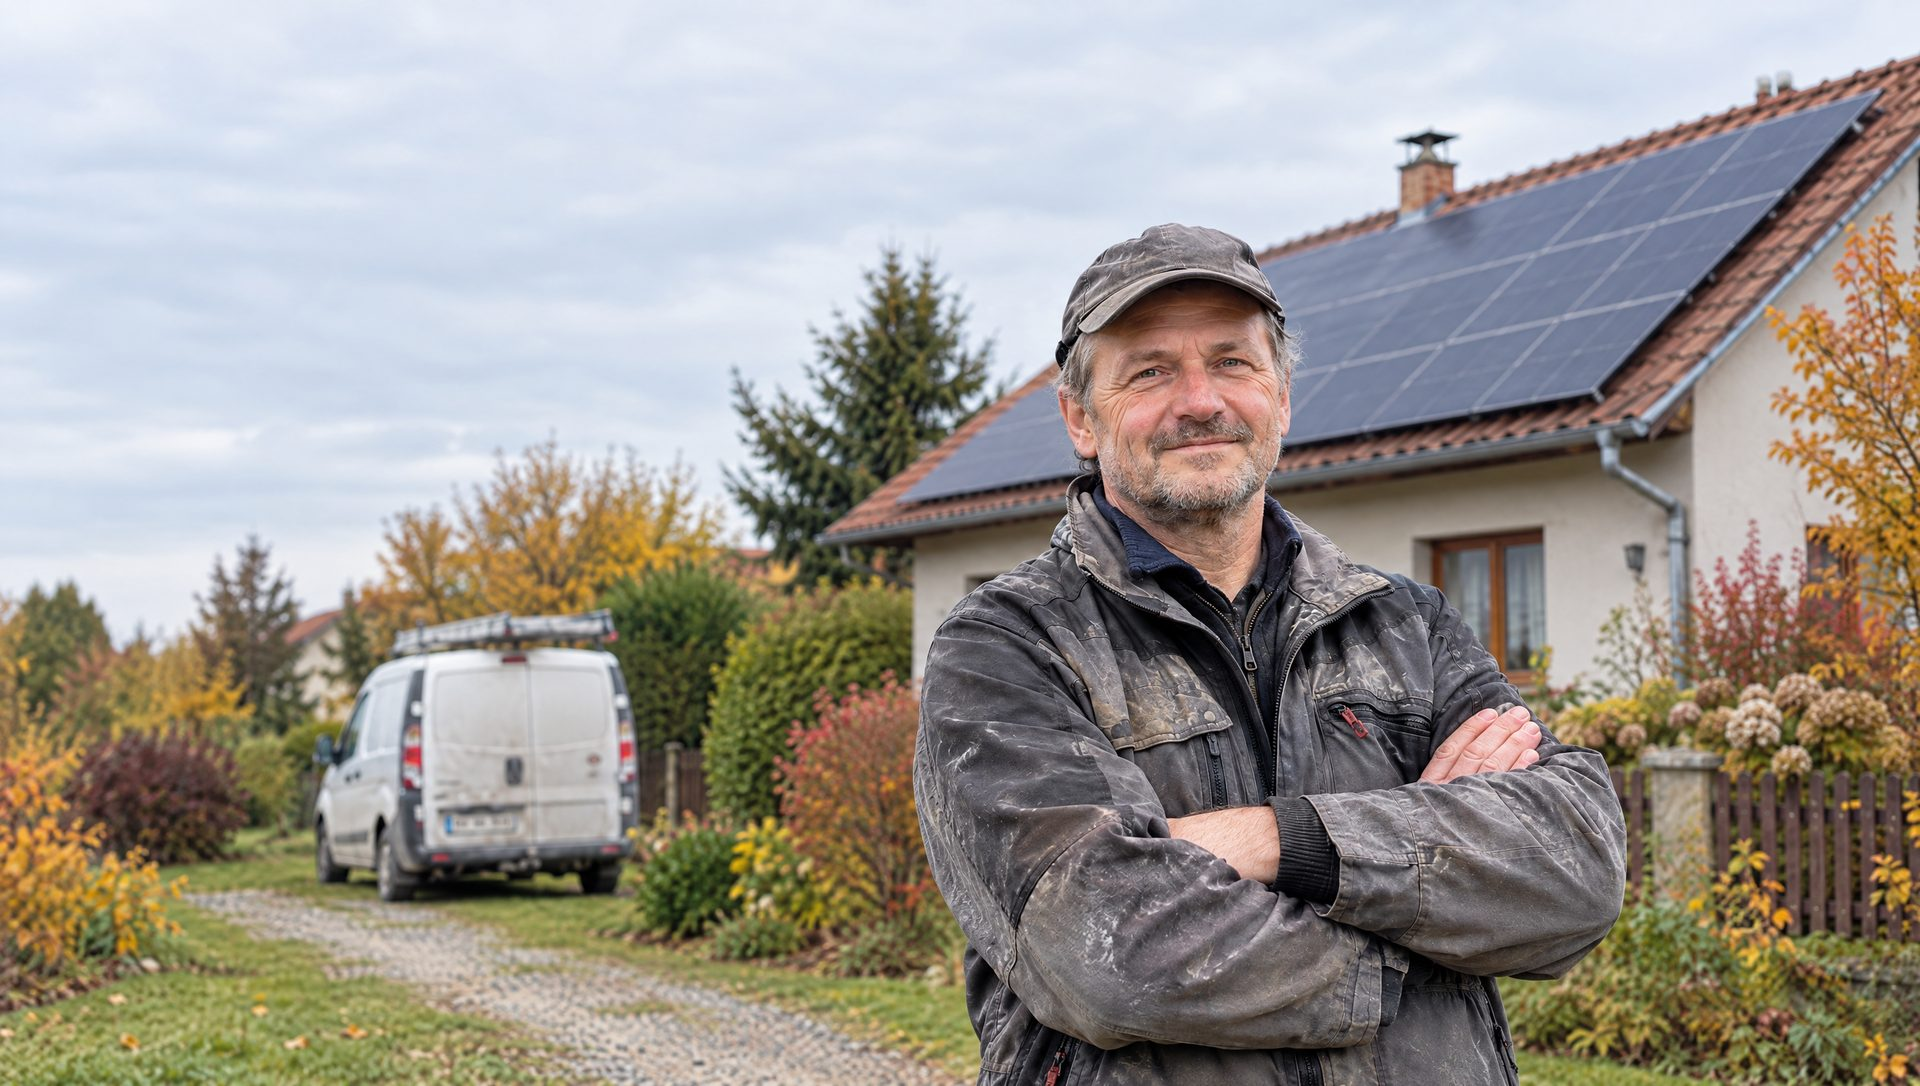
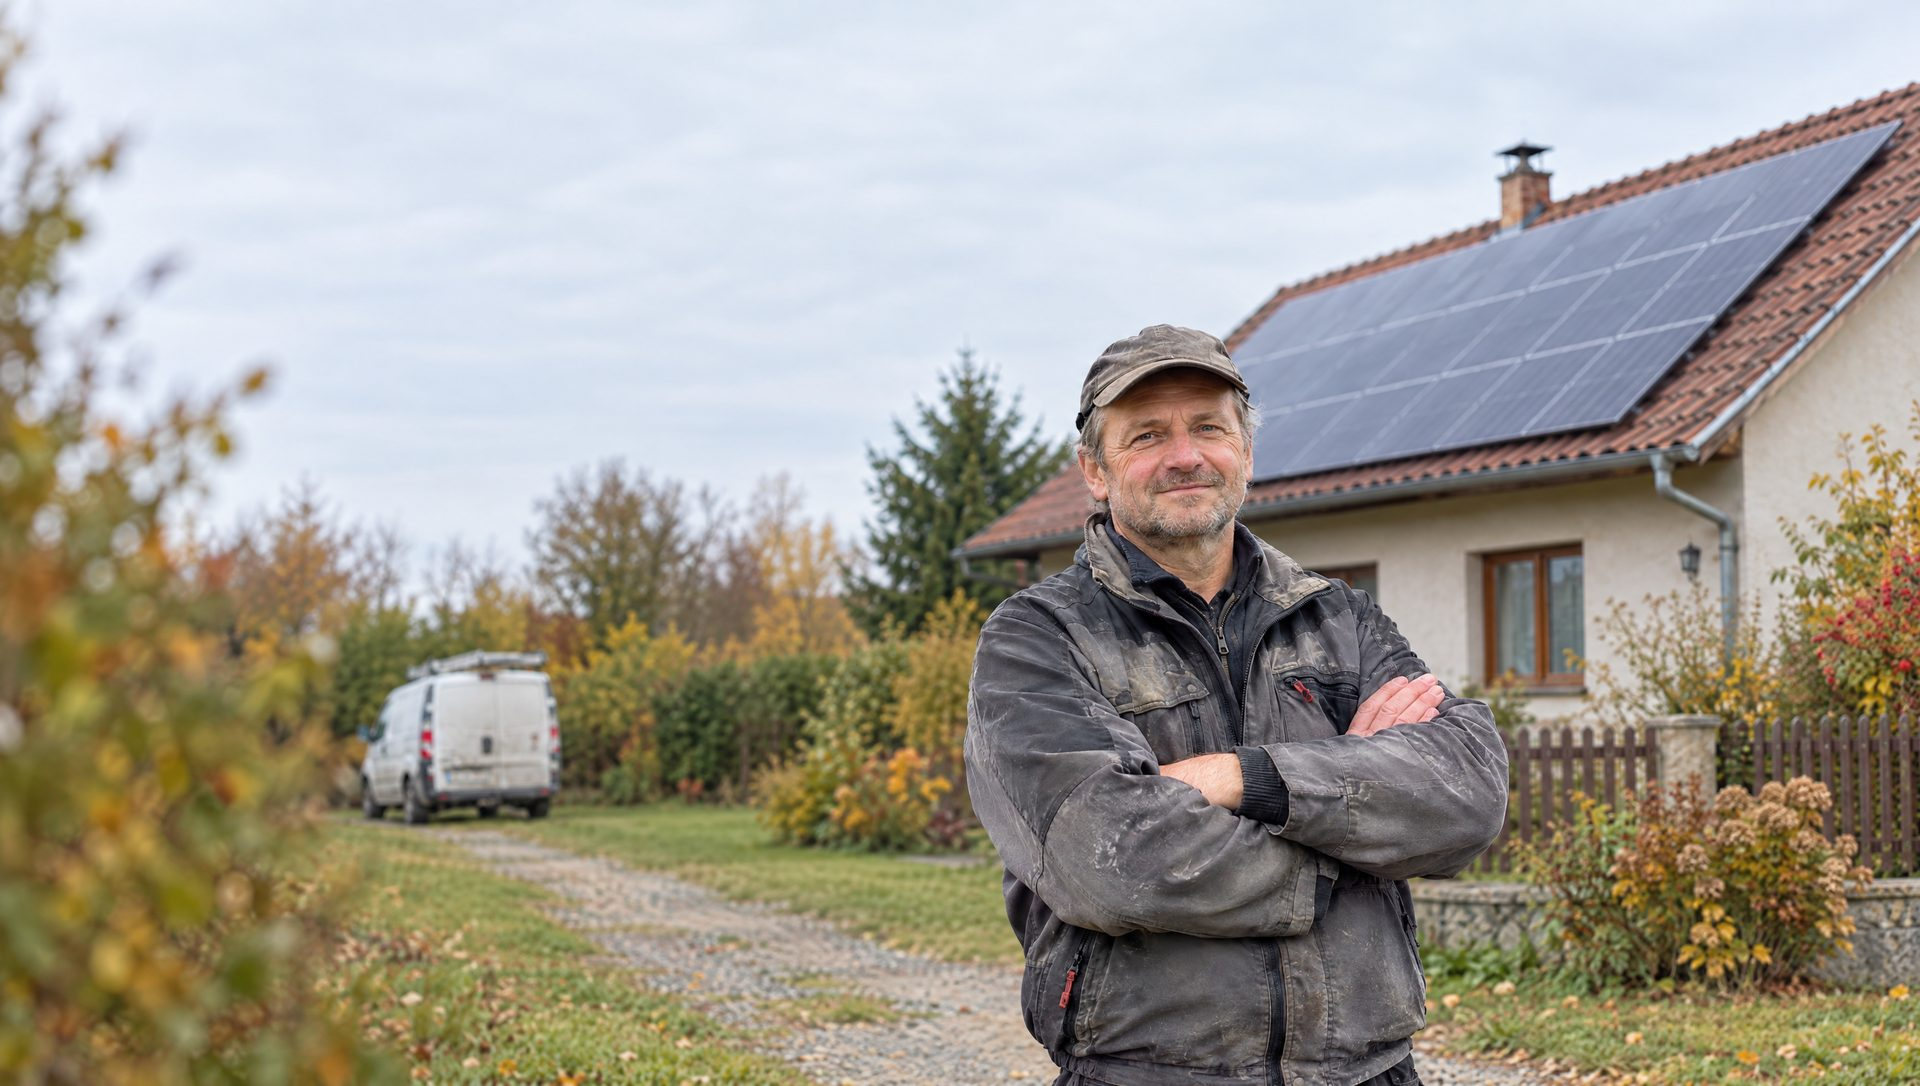
OSVČ LP: volnější hero foto (živnostník v mezeře mezi textem a kartou), větší rozestupy, mobil s tváří nad textem, bez věty o výpočtu příjmu

diff --git a/osvc.html b/osvc.html
@@ -960,7 +960,7 @@ input[type=range]::-moz-range-thumb{width:26px;height:26px;border-radius:50%;bac
 @media (min-width:960px){.hero::before{background:linear-gradient(90deg,rgba(18,22,28,.9) 0%,rgba(18,22,28,.55) 46%,rgba(18,22,28,.14) 100%)}}
 
 /* ═══ OSVČ varianta ═══ */
-.hero__h1a{display:block;font-size:.5em;font-weight:500;color:rgba(255,255,255,.82);letter-spacing:-.01em;margin-bottom:10px}
+.hero__h1a{display:block;font-size:.46em;font-weight:500;color:rgba(255,255,255,.85);letter-spacing:-.01em;margin-bottom:18px}
 .hero__h1a::before{content:"";display:inline-block;width:10px;height:10px;border-radius:50%;background:var(--green);margin:0 10px 2px 0}
 .quick__calc{display:block;margin-top:6px;color:var(--red);font-weight:600;text-decoration:underline;text-underline-offset:3px}
 .myth{margin-top:22px;display:grid;gap:8px;max-width:460px}
@@ -991,8 +991,8 @@ input[type=range]::-moz-range-thumb{width:26px;height:26px;border-radius:50%;bac
 .ecalc__verdict[data-state=no]{background:var(--paper-2)}.ecalc__verdict[data-state=no] b{color:var(--ink)}
 .ecalc__note{margin-top:12px;font-size:13px;color:var(--ink-3);line-height:1.5}
 @media (max-width:959px){.ecalc__two{grid-template-columns:1fr}.ecalc .calc__live{display:none}.hero__h1a{font-size:.6em}.ecalc .calc__label{flex-wrap:wrap;gap:4px 12px}.ecalc .calc__label output{font-size:30px;white-space:nowrap}.ecalc .calc__presets button{padding:0 13px;font-size:14px}}
-@media (min-width:960px){.ecalc__res{align-self:start;position:sticky;top:96px}.hero__bg{object-position:50% 30%}.hero::before{background:linear-gradient(90deg,rgba(18,22,28,.9) 0%,rgba(18,22,28,.7) 40%,rgba(18,22,28,.35) 62%,rgba(18,22,28,.55) 100%)}}
-@media (max-width:959px){.hero__bg{object-position:62% 30%}}
+@media (min-width:960px){.ecalc__res{align-self:start;position:sticky;top:96px}.hero__bg{width:114%;max-width:none;left:-14%;object-position:50% 38%}.hero::before{background:linear-gradient(90deg,rgba(18,22,28,.92) 0%,rgba(18,22,28,.7) 36%,rgba(18,22,28,.26) 58%,rgba(18,22,28,.48) 100%)}.hero__in{gap:0 96px}.hero__content{max-width:640px}.hero h1{font-size:clamp(34px,3.6vw,50px);margin-top:26px}.hero__h1b{margin-top:18px}.hero__who{margin-top:26px}.hero__call{margin-top:26px}.trust{margin-top:36px}}
+@media (max-width:959px){.hero__bg{object-position:53% 0%;height:520px}.hero::before{background:linear-gradient(180deg,rgba(18,22,28,.22) 0%,rgba(18,22,28,.3) 40%,rgba(18,22,28,.72) 62%,#12161C 520px)}.hero__in{padding-top:250px}.hero h1{margin-top:16px}.hero__h1a{margin-bottom:12px}.hero__h1b{margin-top:30px}.hero__who{margin-top:16px}.quick{margin-top:14px}}
 </style>
 </head>
 <body>
@@ -1172,7 +1172,7 @@ input[type=range]::-moz-range-thumb{width:26px;height:26px;border-radius:50%;bac
             <button type="button" data-dum="stary" class="is-on">Starší, bez zateplení</button><button type="button" data-dum="novy">Zateplený nebo nový</button><button type="button" data-dum="nevim">Nevím</button>
           </div>
         </div>
-        <p class="calc__foot">Orientační výpočet podle podmínek NZÚ Light 2026 (3.&nbsp;decil 25&nbsp;426&nbsp;Kč, 5.&nbsp;decil 31&nbsp;058&nbsp;Kč na osobu; váhy 1&nbsp;/&nbsp;0,5&nbsp;/&nbsp;0,3). Příjem OSVČ: zisk po paušálních výdajích 70&nbsp;% minus daň a&nbsp;minimální pojistné. O&nbsp;nároku rozhoduje Státní fond životního prostředí ČR.</p>
+        <p class="calc__foot">Orientační výpočet podle podmínek NZÚ Light 2026 (3.&nbsp;decil 25&nbsp;426&nbsp;Kč, 5.&nbsp;decil 31&nbsp;058&nbsp;Kč na osobu; váhy 1&nbsp;/&nbsp;0,5&nbsp;/&nbsp;0,3). O&nbsp;nároku rozhoduje Státní fond životního prostředí ČR.</p>
       </div>
       <div class="ledger num ecalc__res" aria-live="polite">
         <div class="ledger__row"><span>Váš čistý příjem z&nbsp;podnikání za měsíc</span><b id="e-net">≈ 0&nbsp;Kč</b></div>
